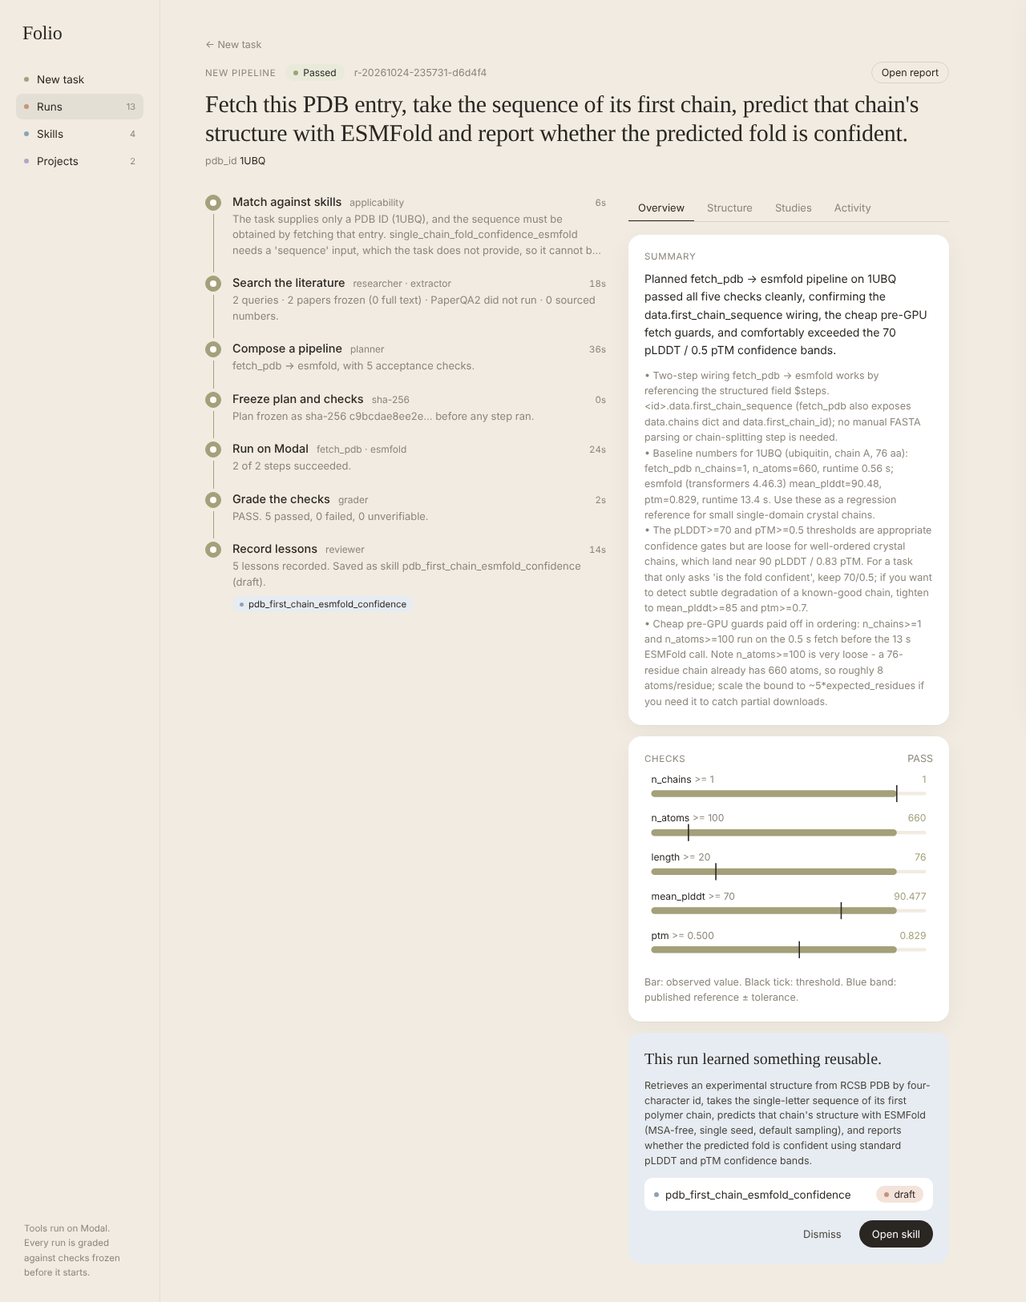
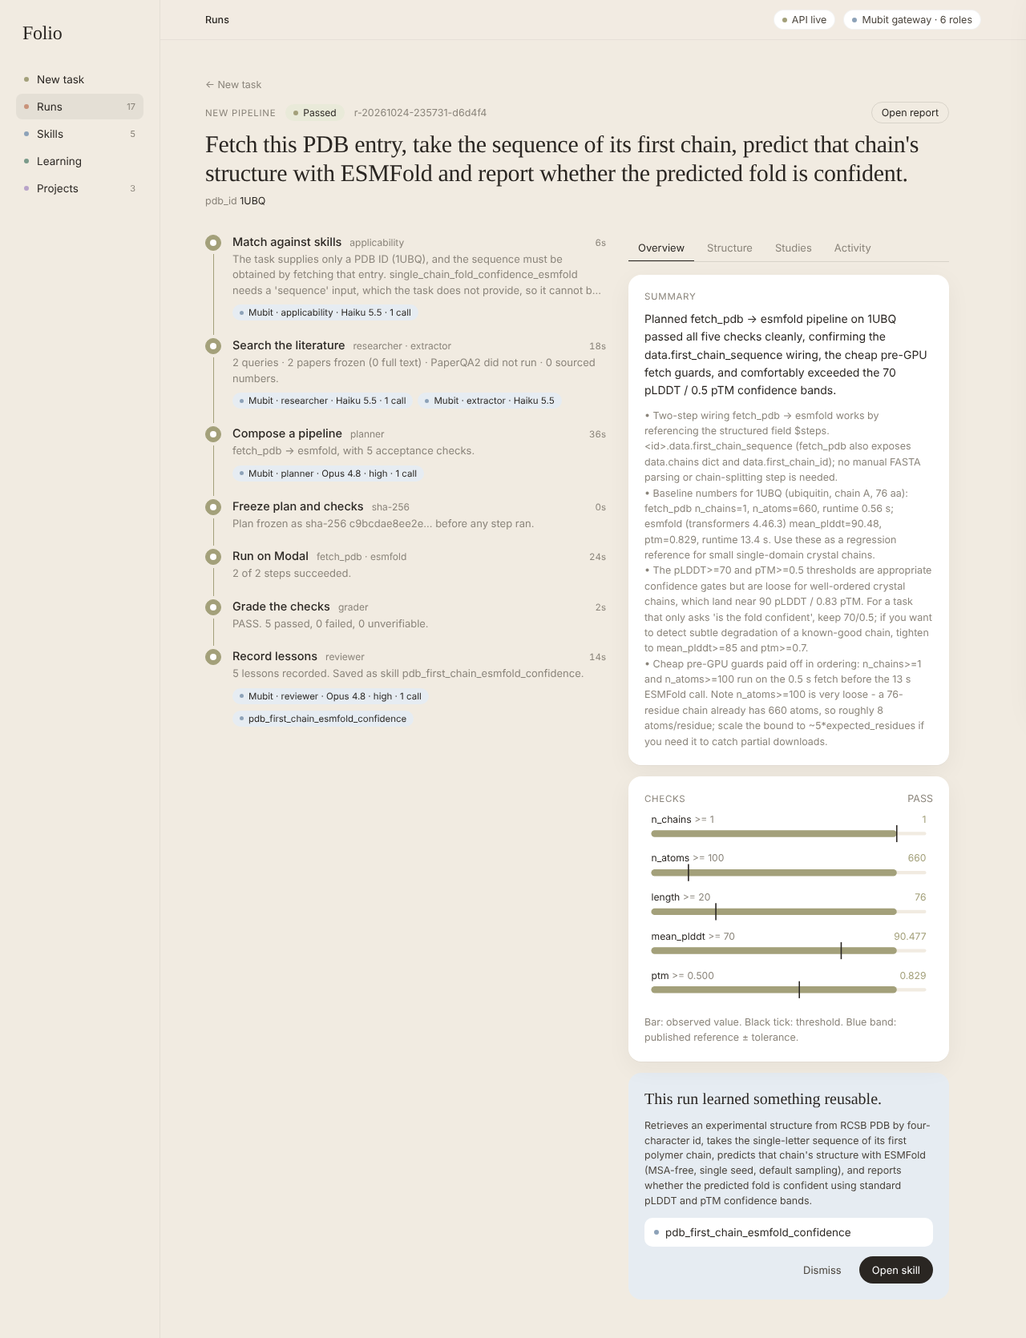
Show Mubit routing per pipeline phase, apply corrections without a manual form, and refresh the README screenshots

diff --git a/labloop/web/index.html b/labloop/web/index.html
@@ -136,7 +136,7 @@ details summary{cursor:pointer;font-size:12.5px;color:#4a443c}details p{font-siz
 .chain .a{align-self:center;text-align:center;color:var(--muted)}
 .delta{display:inline-flex;gap:6px;align-items:center;font-size:12px;padding:3px 9px;border-radius:999px;background:var(--slatebg)}
 .badge{font-size:11px;padding:2px 8px;border-radius:999px;background:var(--bg)}.badge.m{background:var(--slatebg)}.badge.z{background:#f3e3da}
-.bar{height:6px;border-radius:3px;background:var(--bg);overflow:hidden}.bar>span{display:block;height:100%;background:var(--slate);transition:width .6s ease}
+.meter{height:6px;border-radius:3px;background:var(--bg);overflow:hidden}.meter>span{display:block;height:100%;background:var(--slate);transition:width .6s ease}
 @media (max-width:820px){.topbar{padding:10px 16px}.chain{grid-template-columns:1fr}.chain .a{transform:rotate(90deg)}}
 pre{white-space:pre-wrap;overflow-wrap:anywhere;font-size:12px;background:var(--soft);padding:12px;border-radius:10px;margin:0}
 @media (max-width:820px){
@@ -159,12 +159,11 @@ pre{white-space:pre-wrap;overflow-wrap:anywhere;font-size:12px;background:var(--
       <button class="navbtn" data-nav="learning"><span class="dot" style="background:#7a9a8a"></span>Learning</button>
       <button class="navbtn" data-nav="projects"><span class="dot" style="background:#b8a3c9"></span>Projects<span class="n" id="projectCount"></span></button>
     </div>
-    <div class="foot">Tools run on Modal.<br>Every run is graded against checks frozen before it starts.</div>
   </nav>
   <div style="flex:1;min-width:0;display:flex;flex-direction:column">
     <div class="topbar" id="topbar"><span class="crumb" id="crumb">New task</span><span style="flex:1"></span>
       <span class="pill" id="apiPill"><span class="dot" style="background:var(--muted)"></span>API</span>
-      <span class="pill" id="routePill">routing…</span><span class="pill" id="mubitPill">Mubit…</span></div>
+      <span class="pill" id="routePill" style="display:none"></span></div>
     <main id="view"></main>
   </div>
 </div>
@@ -190,13 +189,13 @@ const TEMPLATES = [
    params:[{key:'accession', label:'UniProt accession', value:'P01542'}]},
 ];
 const PHASES = [
-  {key:'match', name:'Match against skills', agent:'applicability'},
-  {key:'research', name:'Search the literature', agent:'researcher · extractor'},
-  {key:'plan', name:'Compose a pipeline', agent:'planner'},
+  {key:'match', name:'Match against skills', agent:'applicability', roles:['applicability']},
+  {key:'research', name:'Search the literature', agent:'researcher · extractor', roles:['researcher','extractor']},
+  {key:'plan', name:'Compose a pipeline', agent:'planner', roles:['planner']},
   {key:'freeze', name:'Freeze plan and checks', agent:'sha-256'},
   {key:'run', name:'Run on Modal', agent:'tools'},
   {key:'grade', name:'Grade the checks', agent:'grader'},
-  {key:'learn', name:'Record lessons', agent:'reviewer'},
+  {key:'learn', name:'Record lessons', agent:'reviewer', roles:['reviewer','corrector']},
 ];
 const S = {selected:null, skills:[], runs:[], dismissed:{}, timer:null, viewers:{}, molStyle:{}, tab:{}};
 const $ = s => document.querySelector(s);
@@ -257,10 +256,9 @@ async function refreshStatus(){
   try {
     const l = await api('/learning');
     $('#apiPill').innerHTML = '<span class="dot" style="background:var(--olive);animation:pulse 2.4s ease-in-out infinite"></span>API live';
-    const planner = (l.roles.find(r => r.role === 'planner') || {}).routed_to || '';
-    const viaMubit = planner.startsWith('mubit');
-    $('#routePill').innerHTML = `<span class="dot" style="background:${viaMubit?'var(--slate)':'var(--clay)'}"></span>planner · ${esc(planner.replace('mubit:','Mubit ').replace('zai:','Z.AI '))}`;
-    $('#mubitPill').textContent = `Mubit recorded ${l.totals.calls_recorded_by_mubit} of ${l.totals.calls} logged calls`;
+    const viaMubit = l.roles.filter(r => String(r.routed_to||'').startsWith('mubit')).length;
+    $('#routePill').style.display = viaMubit ? '' : 'none';
+    $('#routePill').innerHTML = `<span class="dot" style="background:var(--slate)"></span>Mubit gateway · ${viaMubit} roles`;
     S.learning = l;
   } catch(e) { $('#apiPill').innerHTML = '<span class="dot" style="background:var(--fail)"></span>API unreachable'; }
 }
@@ -339,10 +337,23 @@ function phaseDetail(key, d){
       return {detail:`${R.verdict}. ${R.counts.PASS} passed, ${R.counts.FAIL} failed, ${R.counts.UNVERIFIABLE} unverifiable.`};
     case 'learn': if (st.phase !== 'done') return {};
       { const sk = st.skill; const n = (st.lessons||[]).length;
-        const what = !sk ? 'No skill saved.' : sk.action === 'created' ? `Saved as skill ${sk.skill} (${sk.standing}).` : `Run added to ${sk.skill}, now ${sk.standing}.`;
+        const what = !sk ? 'No skill saved.' : sk.action === 'created' ? `Saved as skill ${sk.skill}.` : `Run added to ${sk.skill}.`;
         return {detail:`${n} ${n===1?'lesson':'lessons'} recorded. ${what}`, tag: sk ? sk.skill : null}; }
   }
   return {};
+}
+function shortModel(spec){
+  const [model, effort] = String(spec||'').replace(/^[a-z]+:/,'').split('@');
+  const [, family, ...ver] = model.split('-');
+  return family ? `${family[0].toUpperCase()}${family.slice(1)} ${ver.join('.')}${effort?' · '+effort:''}` : model;
+}
+function mubitChips(p, d){
+  const roles = (S.learning && S.learning.roles) || [];
+  return (p.roles||[]).map(role => { const r = roles.find(x => x.role === role);
+    if (!r || !String(r.routed_to||'').startsWith('mubit')) return '';
+    const n = (d.calls||[]).filter(c => c.role === role && c.recorded_by_mubit).length;
+    if (role === 'corrector' && !n) return '';
+    return `<span class="tag" title="${esc(r.routed_to)}"><span class="dot" style="width:5px;height:5px;background:var(--slate)"></span>Mubit · ${esc(role)} · ${esc(shortModel(r.routed_to))}${n?` · ${n} ${n===1?'call':'calls'}`:''}</span>`; }).join(' ');
 }
 function renderSteps(d){
   const st = d.status || {}, hist = st.history || [], phase = st.phase || 'queued';
@@ -366,6 +377,7 @@ function renderSteps(d){
       <div class="sbody" style="opacity:${state==='todo'||state==='skipped'?.45:1}">
         <div class="shead"><span class="sname">${esc(p.name)}</span><span class="sagent">${esc(p.key==='run'?tools:p.agent)}</span><span class="stime" ${state==='active'&&seen[p.key]?`data-since="${esc(seen[p.key].at)}"`:''}>${esc(state==='active'&&seen[p.key]?since(seen[p.key].at):time)}</span></div>
         <div class="sdetail ${state==='active'?'':'clamp'}" title="${esc(detail)}">${esc(detail)}</div>
+        ${state !== 'todo' && state !== 'skipped' ? `<div style="display:flex;gap:6px;flex-wrap:wrap">${mubitChips(p, d)}</div>` : ''}
         ${info.tag ? `<span class="tag"><span class="dot" style="width:5px;height:5px;background:var(--slate)"></span>${esc(info.tag)}</span>` : ''}
       </div></div>`;
   }).join('');
@@ -544,22 +556,21 @@ function renderLearned(d){
   const st = d.status || {}, sk = st.skill; if (st.phase !== 'done' || !sk || S.dismissed[d.run_id]) return '';
   if (sk.action === 'created') return `<div class="learned"><div class="h">This run learned something reusable.</div>
       <div class="small" style="color:#4a443c;line-height:1.5">${esc((d.plan && d.plan.skill && d.plan.skill.description) || '')}</div>
-      <div class="box"><span class="dot" style="background:var(--slate)"></span>${esc(sk.skill)}<span style="margin-left:auto">${standingPill(sk.standing)}</span></div>
+      <div class="box"><span class="dot" style="background:var(--slate)"></span>${esc(sk.skill)}</div>
       <div style="display:flex;gap:8px;justify-content:flex-end"><button class="ghost" data-dismiss style="color:#4a443c">Dismiss</button><button class="primary" data-open="${esc(sk.skill)}">Open skill</button></div></div>`;
   return `<div class="learned"><div class="h">A saved skill did this work.</div>
-    <div class="box"><span class="dot" style="background:var(--slate)"></span>${esc(sk.skill)}<span style="margin-left:auto">${standingPill(sk.standing)}</span></div>
+    <div class="box"><span class="dot" style="background:var(--slate)"></span>${esc(sk.skill)}</div>
     <div style="display:flex;justify-content:flex-end"><button class="primary" data-open="${esc(sk.skill)}">Open skill</button></div></div>`;
 }
 function renderCorrect(d, running){
-  if (running) return '';
-  const cs = d.corrections || [];
-  return `<div class="card" style="display:flex;flex-direction:column;gap:10px"><div class="cardhead"><span class="eyebrow">Correct this run</span><span class="small muted">becomes a rule the next plan follows</span></div>
+  const cs = d.corrections || [], st = d.status || {}, t = d.task || {};
+  if (!cs.length && !t.corrects) return '';
+  return `<div class="card" style="display:flex;flex-direction:column;gap:10px"><div class="cardhead"><span class="eyebrow">Mubit correction</span><span class="small muted">applied automatically</span></div>
+    ${t.corrects ? `<div class="small" style="line-height:1.5">Re-planned with the correction of run <a href="#/runs/${esc(t.corrects)}">${esc(t.corrects)}</a>.</div>` : ''}
     ${cs.map(c => `<div style="display:flex;flex-direction:column;gap:6px;padding:10px 12px;background:var(--soft);border-radius:10px">
-      <div class="small muted">“${esc(c.text)}” · ${esc(c.by)}</div>
-      <div class="small"><span class="badge ${c.recorded_by_mubit?'m':'z'}">${c.recorded_by_mubit?'recorded by Mubit':'not recorded by Mubit'}</span> <strong style="font-weight:500">${esc(c.role)} rule.</strong> ${esc(c.rule)}</div>
-      <div><button class="primary" style="padding:6px 12px;font-size:12px" data-rerun='${esc(JSON.stringify({corrects:d.run_id}))}'>Re-run with this correction</button></div></div>`).join('')}
-    <textarea id="corrText" rows="2" placeholder="e.g. The pTM threshold is too strict for a 30-residue peptide; use 0.3." style="width:100%;border:1px solid rgba(42,38,34,.1);border-radius:10px;padding:10px;font-size:13px;background:var(--soft)"></textarea>
-    <div style="display:flex;justify-content:flex-end;gap:8px;align-items:center"><span id="corrMsg" class="small muted"></span><button class="primary" id="corrSend">Submit correction</button></div></div>`;
+      <div class="small muted">${esc(c.text)}</div>
+      <div class="small"><span class="badge m">Mubit corrector</span> <strong style="font-weight:500">${esc(c.role)} rule.</strong> ${esc(c.rule)}</div>
+      ${st.corrected_by ? `<div class="small">Re-run: <a href="#/runs/${esc(st.corrected_by)}">${esc(st.corrected_by)}</a></div>` : ''}</div>`).join('')}</div>`;
 }
 function renderTabs(d, phase){
   const running = phase !== 'done' && phase !== 'error';
@@ -598,17 +609,6 @@ async function renderRun(id){
   document.querySelectorAll('[data-open]').forEach(b => b.onclick = () => go(`#/skills/${b.dataset.open}`));
   document.querySelectorAll('[data-dismiss]').forEach(b => b.onclick = () => { S.dismissed[id] = true; renderRun(id); });
   document.querySelectorAll('[data-tab]').forEach(b => b.onclick = () => { S.tab[id] = b.dataset.tab; renderRun(id); });
-  if ($('#corrSend')) $('#corrSend').onclick = async () => {
-    const text = $('#corrText').value.trim(); if (text.length < 5) { $('#corrMsg').textContent = 'Write the correction first.'; return; }
-    $('#corrSend').disabled = true; $('#corrMsg').textContent = 'Turning it into a rule…';
-    try { await api(`/runs/${id}/corrections`, {method:'POST', body:JSON.stringify({text})}); S.tab[id] = 'activity'; S.pollUntil = Date.now() + 120000; renderRun(id); }
-    catch(e) { $('#corrMsg').textContent = e.message; $('#corrSend').disabled = false; }
-  };
-  document.querySelectorAll('[data-rerun]').forEach(b => b.onclick = async () => {
-    b.disabled = true;
-    try { const r = await api('/tasks', {method:'POST', body:JSON.stringify({description:d.task.description, inputs:d.task.inputs||{}, project:d.task.project||undefined, replan:true, corrects:id})}); go(`#/runs/${r.run_id}`); }
-    catch(e) { b.disabled = false; alert(e.message); }
-  });
   mountStructures();
   clearTimeout(S.timer);
   if (phase !== 'done' && phase !== 'error' || (S.pollUntil && Date.now() < S.pollUntil)) S.timer = setTimeout(() => renderRun(id), 2500);
@@ -635,7 +635,7 @@ async function renderSkills(){
       <div style="display:flex;align-items:center;gap:8px"><span class="dot" style="background:var(--slate)"></span><span style="font-size:14.5px;font-weight:500">${esc(s.title||s.name)}</span></div>
       <div class="kv">${esc(s.description)}</div>
       <div class="pills">${s.tools.map(t=>`<span class="chip">${esc(t)}</span>`).join('')}</div>
-      <div style="display:flex;align-items:center;gap:8px;margin-top:auto">${standingPill(s.standing)}<span class="small muted">${s.passes} of ${s.runs} runs passed · v${s.version}</span></div>
+      <div style="display:flex;align-items:center;gap:8px;margin-top:auto"><span class="small muted">${s.passes} of ${s.runs} runs passed · v${s.version}</span></div>
     </div>`).join('') : '<div class="muted small">No skills yet. A run that passes its checks saves its pipeline here.</div>'}</div>
     <div><div style="display:flex;align-items:baseline;gap:12px"><h2 style="margin:0">Tool knowledge</h2><button class="ghost" id="refreshKnowledge" style="margin-left:auto;border:1px solid var(--line2)">Refresh from papers</button></div>
     <p class="sub" style="margin:6px 0 14px">Read by PaperQA2 from each model's own method papers. The planner sees these cards.</p>
@@ -700,7 +700,7 @@ async function renderSkill(name){
   const s = d.skill, c = d.card;
   $('#view').innerHTML = `<div style="display:flex;flex-direction:column;gap:28px">
     <div><button class="back" onclick="go('#/skills')">← Skills</button>
-      <div style="display:flex;align-items:center;gap:12px;margin-bottom:8px">${standingPill(c.standing)}<span class="small muted">${c.passes} of ${c.runs} runs passed · v${c.version}</span></div>
+      <div style="display:flex;align-items:center;gap:12px;margin-bottom:8px"><span class="small muted">${c.passes} of ${c.runs} runs passed · v${c.version}</span></div>
       <h1 class="run">${esc(s.title)}</h1><p class="sub" style="margin-top:8px">${esc(s.description)}</p></div>
     <div class="cols"><div style="display:flex;flex-direction:column;gap:14px">
       <div class="card" style="display:flex;flex-direction:column;gap:10px"><span class="eyebrow">Applies when</span>${s.applies_when.map(a=>`<div class="small">• ${esc(a)}</div>`).join('')}
@@ -787,21 +787,21 @@ async function renderLearning(){
   const corrections = L.corrections, fixups = L.fixups;
   const roles = L.roles.filter(r => r.calls || r.routed_to);
   $('#view').innerHTML = `<div class="stack" style="gap:30px">
-    <div><h1>Learning</h1><p class="sub">How corrections, failures and new papers change what the system does next, and which calls Mubit can learn from.</p></div>
-    <div class="kpis">${kpi('Runs', T.runs, `${T.passed} passed`)}${kpi('Pass rate', passRate, 'of all runs', {dec:0, suffix:'%'})}${kpi('Corrections', R.corrections_total, 'from people')}${kpi('Lessons', R.lessons_total, 'kept in memory')}${kpi('Mubit-recorded calls', mubitShare, `${T.calls_recorded_by_mubit} of ${T.calls} in the ledger`, {suffix:'%'})}${kpi('Knowledge versions', R.knowledge.length, 'model-paper cards')}</div>
+    <div><h1>Learning</h1><p class="sub">How failures, corrections and new papers change the next run.</p></div>
+    <div class="kpis">${kpi('Runs', T.runs, `${T.passed} passed`)}${kpi('Pass rate', passRate, 'of all runs', {dec:0, suffix:'%'})}${kpi('Corrections', R.corrections_total, 'by the Mubit corrector')}${kpi('Lessons', R.lessons_total, 'kept in memory')}${kpi('Mubit calls', T.calls_recorded_by_mubit, 'recorded by the gateway')}${kpi('Knowledge versions', R.knowledge.length, 'model-paper cards')}</div>
 
     <div><h2>A correction becoming an update</h2>
       <div class="flow" style="margin-bottom:14px">
-        <div class="node"><b>1 · Person corrects a run</b>From the run's Overview tab.</div><span class="arr">→</span>
-        <div class="node"><b>2 · Corrector role</b>Turns it into a rule. A fixed prompt, so Mubit records every correction as one task.</div><span class="arr">→</span>
-        <div class="node"><b>3 · Rule in memory</b>Stored as a correction lesson that outranks the system's own.</div><span class="arr">→</span>
-        <div class="node"><b>4 · Re-run, fresh plan</b>The planner applies the rule and records it as a decision.</div><span class="arr">→</span>
-        <div class="node"><b>5 · Model update</b>Corrected planner and corrector calls are kept examples; Mubit trains each role's adapter on them.</div></div>
+        <div class="node"><b>1 · A check fails</b>The run grades FAIL or INCONCLUSIVE.</div><span class="arr">→</span>
+        <div class="node"><b>2 · Mubit corrector</b>Reads the failed checks and writes a rule.</div><span class="arr">→</span>
+        <div class="node"><b>3 · Rule in memory</b>Stored as a correction lesson.</div><span class="arr">→</span>
+        <div class="node"><b>4 · Re-plan</b>The planner applies the rule once.</div><span class="arr">→</span>
+        <div class="node"><b>5 · Model update</b>Mubit trains each role's adapter on the recorded calls.</div></div>
       <div class="list">${corrections.length ? corrections.map(c => `<div class="card" style="display:flex;flex-direction:column;gap:10px">
         <div class="chain"><div class="c"><div class="eyebrow">Run</div>${verdictPill('done', c.run.verdict)} <a href="#/runs/${esc(c.run.run_id)}">${esc(c.run.run_id)}</a><div class="muted" style="margin-top:4px">${esc(String(c.run.description).slice(0,90))}</div></div>
-          <div class="a">→</div><div class="c"><div class="eyebrow">Correction → ${esc(c.role)} rule</div>“${esc(c.text)}”<div style="margin-top:6px">${esc(c.rule)}</div><div style="margin-top:6px"><span class="badge ${c.recorded_by_mubit?'m':'z'}">${c.recorded_by_mubit?'recorded by Mubit':'routed to '+esc(c.model||'')}</span></div></div>
-          <div class="a">→</div><div class="c"><div class="eyebrow">Next run</div>${c.followups.length ? c.followups.map(f => `${verdictPill(f.phase||'done', f.verdict)} <a href="#/runs/${esc(f.run_id)}">${esc(f.run_id)}</a><div style="margin-top:6px;display:flex;gap:6px;flex-wrap:wrap">${f.diff.checks_changed.map(checkChange).join('') || '<span class="muted small">no check changed</span>'}</div>`).join('<hr style="border:0;border-top:1px solid var(--line)">') : '<span class="muted">Not re-run yet. Use “Re-run with this correction” on the run.</span>'}</div></div></div>`).join('')
-        : '<div class="card small muted" style="line-height:1.6">No corrections yet. Open a finished run, write what was wrong under “Correct this run”, then re-run it. The correction, its rule and the changed plan appear here.</div>'}</div></div>
+          <div class="a">→</div><div class="c"><div class="eyebrow">Mubit correction → ${esc(c.role)} rule</div><div class="muted">${esc(c.text)}</div><div style="margin-top:6px">${esc(c.rule)}</div></div>
+          <div class="a">→</div><div class="c"><div class="eyebrow">Next run</div>${c.followups.length ? c.followups.map(f => `${verdictPill(f.phase||'done', f.verdict)} <a href="#/runs/${esc(f.run_id)}">${esc(f.run_id)}</a><div style="margin-top:6px;display:flex;gap:6px;flex-wrap:wrap">${f.diff.checks_changed.map(checkChange).join('') || '<span class="muted small">no check changed</span>'}</div>`).join('<hr style="border:0;border-top:1px solid var(--line)">') : '<span class="muted">Re-plan pending.</span>'}</div></div></div>`).join('')
+        : '<div class="card small muted" style="line-height:1.6">None yet. When a run fails a check, the Mubit corrector writes a rule and the task is planned again.</div>'}</div></div>
 
     <div><h2>Failures fixed by the system</h2>
       <div class="list">${fixups.length ? fixups.map(f => `<div class="card"><div class="chain">
@@ -810,19 +810,19 @@ async function renderLearning(){
         <div class="a">→</div><div class="c"><div class="eyebrow">After</div>${verdictPill('done', f.after.verdict)} <a href="#/runs/${esc(f.after.run_id)}">${esc(f.after.run_id)}</a></div></div></div>`).join('') : '<div class="small muted">None yet.</div>'}</div></div>
 
     <div><h2>Recurring tasks on Mubit</h2>
-      <p class="sub" style="margin-bottom:12px">Each role sends one fixed instruction, so the gateway groups its calls into one task and can train an adapter for it. Its digest below identifies the task.</p>
+      <p class="sub" style="margin-bottom:12px">One fixed instruction per role, so Mubit groups each role's calls into one task.</p>
       <div class="card" style="padding:6px 16px"><table class="t"><tr><th>Role</th><th>Routed to</th><th>Task digest</th><th>Calls</th><th style="width:28%">Recorded by Mubit</th></tr>
         ${roles.map(r => { const pct = r.calls ? 100 * r.recorded_by_mubit / r.calls : 0, mub = String(r.routed_to||'').startsWith('mubit');
-          return `<tr><td><strong style="font-weight:500">${esc(r.role)}</strong></td><td><span class="badge ${mub?'m':'z'}">${esc(String(r.routed_to||'').replace('mubit:','Mubit · ').replace('zai:','Z.AI · '))}</span></td><td class="muted">${esc((r.prompt_digests||[]).join(', ') || '—')}</td><td>${r.calls}</td><td><div class="bar"><span style="width:${pct}%"></span></div><div class="small muted">${r.recorded_by_mubit} of ${r.calls}</div></td></tr>`; }).join('')}</table></div></div>
+          return `<tr><td><strong style="font-weight:500">${esc(r.role)}</strong></td><td><span class="badge ${mub?'m':'z'}">${esc(String(r.routed_to||'').startsWith('mubit:') ? 'Mubit · ' + shortModel(r.routed_to) : shortModel(r.routed_to))}</span></td><td class="muted">${esc((r.prompt_digests||[]).join(', ') || '—')}</td><td>${r.calls}</td><td><div class="meter"><span style="width:${pct}%"></span></div><div class="small muted">${r.recorded_by_mubit} of ${r.calls}</div></td></tr>`; }).join('')}</table></div></div>
 
-    <div><h2>Closed and open models, side by side</h2>
-      <p class="sub" style="margin-bottom:12px">Per role and model, from the call ledger. Closed models run through Mubit and are recorded; GLM 5.3 is an open-weight model served by Z.AI.</p>
+    <div><h2>Quality, cost and latency per role</h2>
+      <p class="sub" style="margin-bottom:12px">From the call ledger.</p>
       <div class="grid" style="grid-template-columns:repeat(auto-fill,minmax(300px,1fr))">${roles.filter(r => r.by_model.length).map(r => { const maxLat = Math.max(1, ...r.by_model.map(m => m.median_latency_s || 0));
         return `<div class="skillcard"><div style="display:flex;align-items:baseline;gap:8px"><strong style="font-weight:500">${esc(r.role)}</strong><span class="small muted" style="margin-left:auto">${r.calls} calls</span></div>
-        ${r.by_model.map(m => `<div style="display:flex;flex-direction:column;gap:4px"><div class="small" style="display:flex;gap:6px;align-items:center"><span class="badge ${m.recorded_by_mubit?'m':'z'}">${m.recorded_by_mubit?'closed · Mubit':'open · '+esc(m.provider)}</span>${esc(m.model)}</div>
-          <div class="bar"><span style="width:${100*(m.median_latency_s||0)/maxLat}%;background:${m.recorded_by_mubit?'var(--slate)':'var(--clay)'}"></span></div>
+        ${r.by_model.map(m => `<div style="display:flex;flex-direction:column;gap:4px"><div class="small" style="display:flex;gap:6px;align-items:center"><span class="badge ${m.recorded_by_mubit?'m':''}">${m.recorded_by_mubit?'Mubit':esc(m.provider)}</span>${esc(m.model)}</div>
+          <div class="meter"><span style="width:${100*(m.median_latency_s||0)/maxLat}%;background:${m.recorded_by_mubit?'var(--slate)':'var(--clay)'}"></span></div>
           <div class="small muted">${m.median_latency_s ?? '—'} s median · ${m.median_input_tokens ?? '—'} in / ${m.median_output_tokens ?? '—'} out tokens · ${m.cost_per_call_usd != null ? '$' + m.cost_per_call_usd.toFixed(4) + ' per call' : 'price not published'} · ${Math.round(100*m.ok_rate)}% ok · ${m.runs_passed}/${m.runs} runs passed</div></div>`).join('')}</div>`; }).join('') || '<div class="small muted">No calls logged yet.</div>'}</div>
-      ${T.runs_without_ledger ? `<div class="small muted" style="margin-top:8px;line-height:1.5">${T.runs_without_ledger} earlier runs predate the call ledger; they ran their roles on closed models through Mubit and appear in Mubit's Requests view rather than here.</div>` : ''}</div>
+</div>
 
     <div><h2>Fast refresh</h2>
       <div class="cols" style="grid-template-columns:minmax(0,1fr) minmax(0,1fr)">

diff --git a/README.md b/README.md
@@ -16,7 +16,7 @@ Live at **https://persistentepiphany--labloop-backend-api.us-east.modal.run** (A
 | Use of Mubit | Every model call goes through the Mubit gateway and is recorded, PaperQA2's included. The run page shows each phase's Mubit calls as they happen. | [How Mubit is used](#how-mubit-is-used) | Gateway verified; `api.mubit.ai` does not serve the SDK memory routes |
 
 <table><tr>
-<td width="50%"><img src="docs/screenshots/learning.png" alt="Learning page with Mubit corrections, the re-runs they produced, roles on Mubit and refresh charts"><br><sub>Learning page from live state.</sub></td>
+<td width="50%"><img src="docs/screenshots/learning.png" alt="Learning page with Mubit corrections, the re-runs they produced, roles on Mubit and refresh charts"><br><sub>Learning page.</sub></td>
 <td width="50%"><img src="docs/screenshots/run-correction.png" alt="A failed run and the planner rule its correction became"><br><sub>A failed run and the rule its correction became.</sub></td>
 </tr></table>
 
